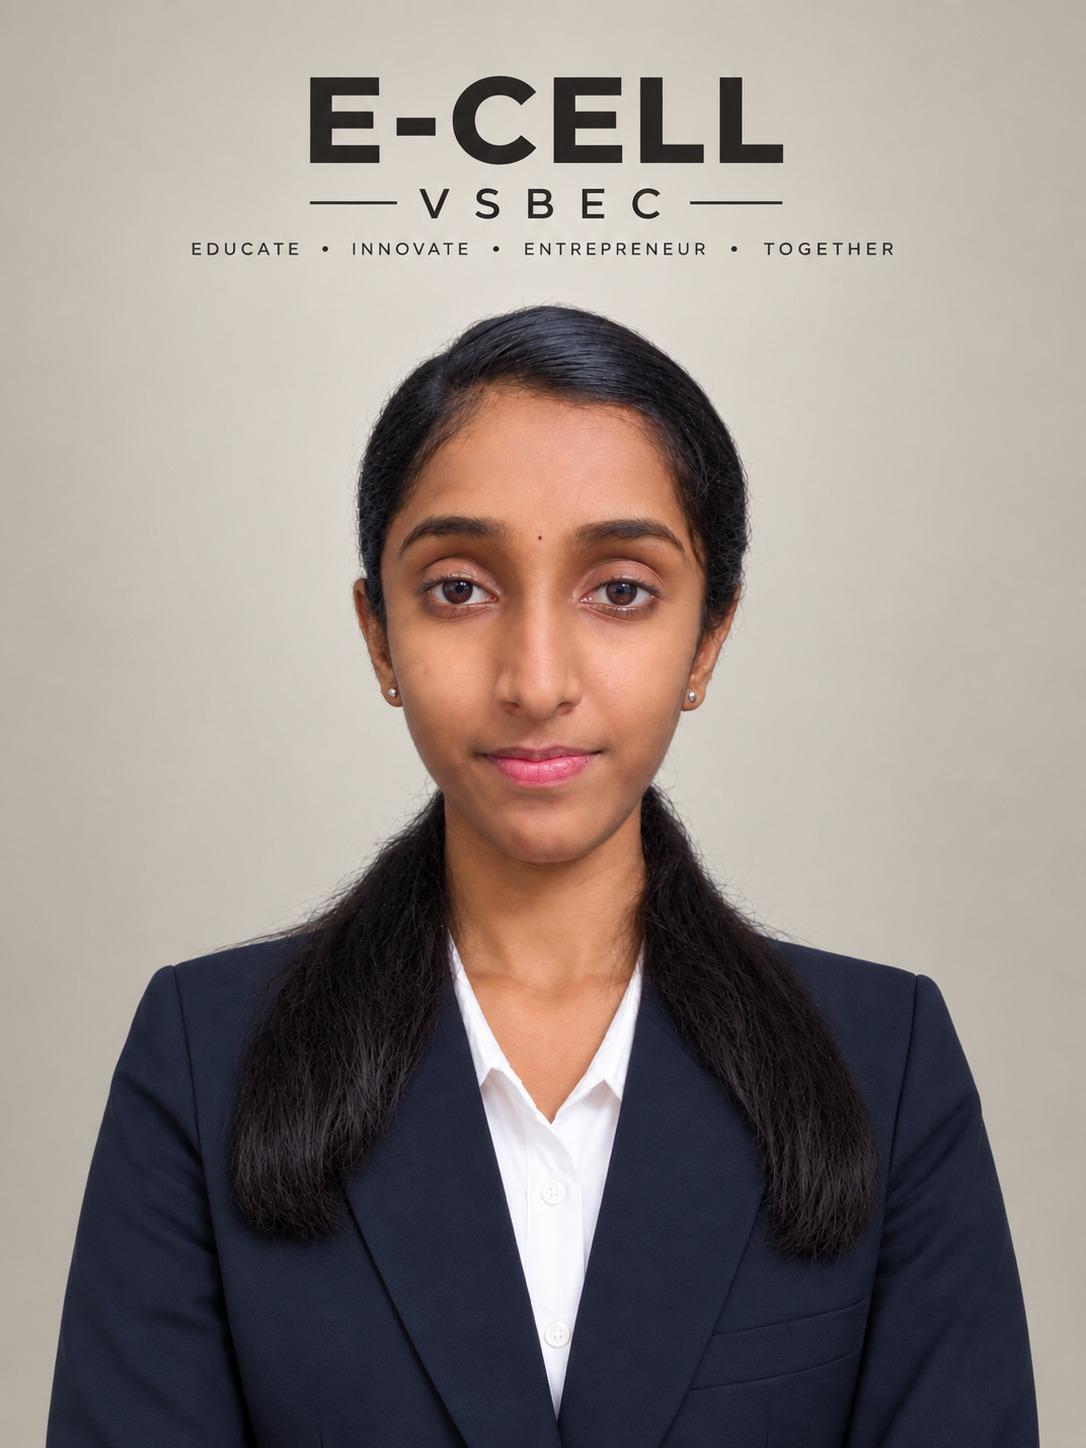
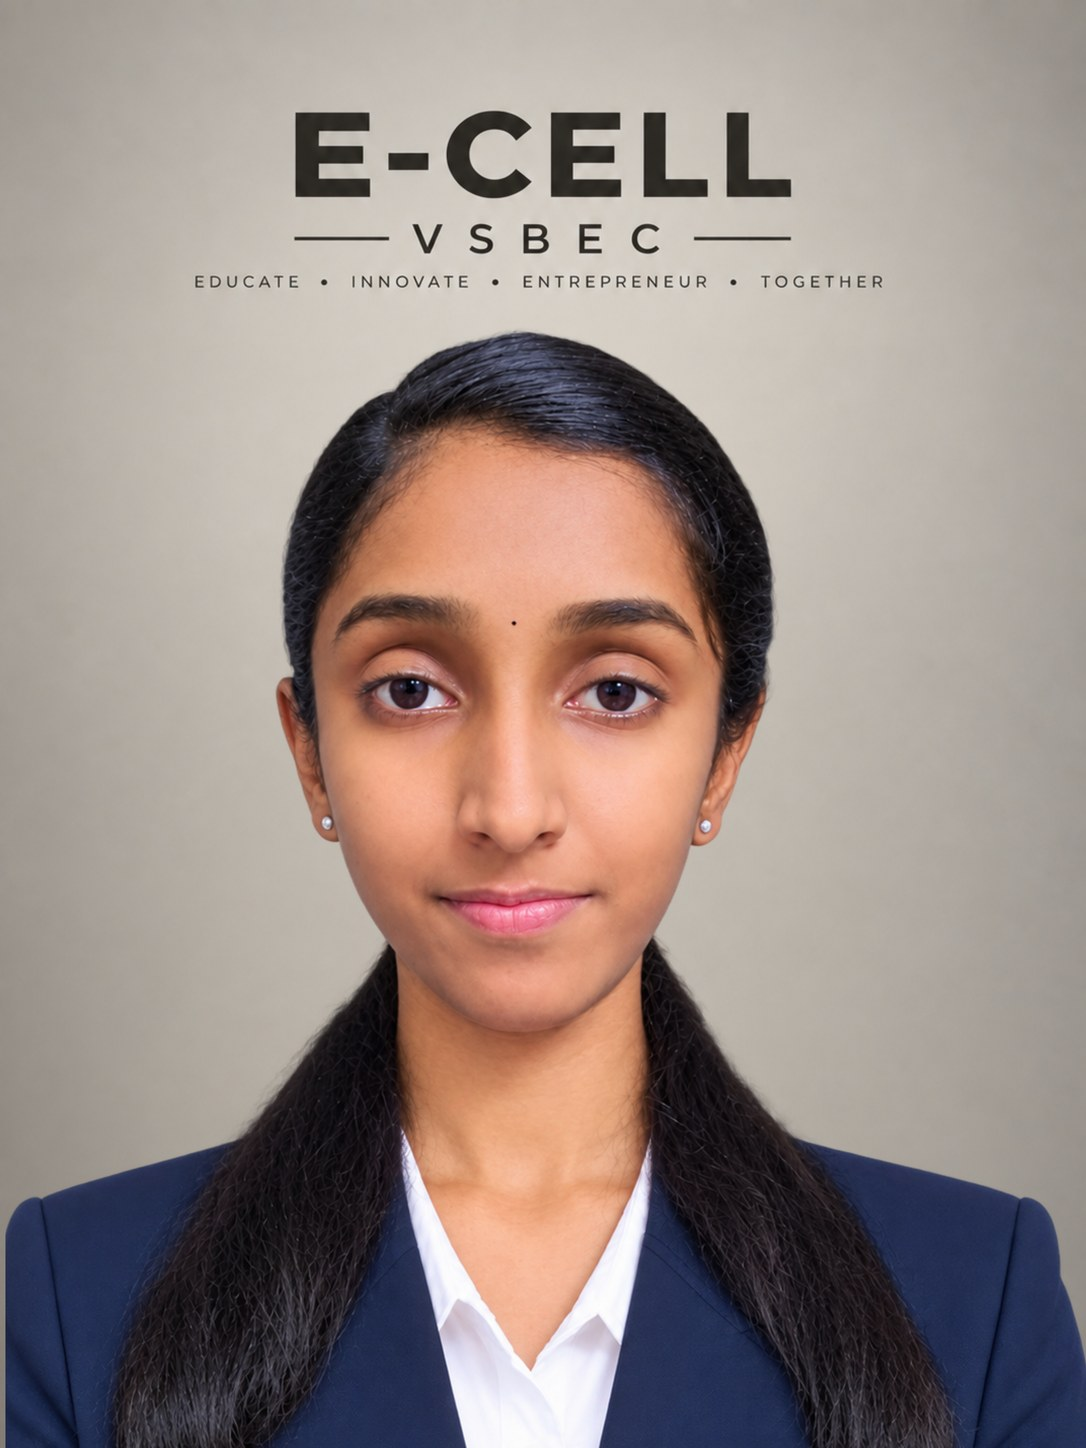
Prepare for Vercel deploy: add vercel.json, update team assets

diff --git a/index.html b/index.html
@@ -92,7 +92,7 @@
           <div class="hero__geometric hero__geometric--1" aria-hidden="true"></div>
           <div class="hero__geometric hero__geometric--2" aria-hidden="true"></div>
           <div class="hero__image-wrapper">
-            <img src="https://images.unsplash.com/photo-1522202176988-66273c2fd55f?w=800&q=80&fit=crop" alt="Students collaborating on entrepreneurship projects at V.S.B. Engineering College" loading="eager" width="800" height="1000">
+            <img src="images/team-gallery/team-01.jpg" alt="Students collaborating on entrepreneurship projects at V.S.B. Engineering College" loading="eager" width="1600" height="1200">
           </div>
         </div>
       </div>
@@ -414,9 +414,9 @@
           <div class="pc-card-wrapper" data-name="HEMAPRIYA T" onclick="window.open('https://www.linkedin.com/in/hemapriya-thiyagarajan-8725b23ab/', '_blank')" data-enable-tilt="true" style="--inner-gradient: linear-gradient(145deg,#60496e8c 0%,#71C4FF44 100%); --behind-glow-color: rgba(113, 196, 255, 0.45); --behind-glow-size: 50%;"><div class="pc-card-shell">
               <section class="pc-card">
                 <div class="pc-inside"><div class="pc-content pc-avatar-content">
-                    <img class="avatar" src="images/hemapriya-t.jpg" alt="HEMAPRIYA T avatar" loading="lazy" onerror="this.style.display='none'">
+                    <img class="avatar" src="images/hemapriya-t.jpg?v=2" alt="HEMAPRIYA T avatar" loading="lazy" onerror="this.style.display='none'">
                     <div class="pc-user-info">
-                      <div class="pc-user-details"><div class="pc-mini-avatar"><img src="images/hemapriya-t.jpg" alt="mini" loading="lazy" onerror="this.src='https://ui-avatars.com/api/?name=HEMAPRIYA+T&background=111111&color=FFFFFF&size=100&bold=true'"></div><div class="pc-user-text"><div class="pc-handle">HEMAPRIYA T</div><div class="pc-status">Technical</div></div></div>
+                      <div class="pc-user-details"><div class="pc-mini-avatar"><img src="images/hemapriya-t.jpg?v=2" alt="mini" loading="lazy" onerror="this.src='https://ui-avatars.com/api/?name=HEMAPRIYA+T&background=111111&color=FFFFFF&size=100&bold=true'"></div><div class="pc-user-text"><div class="pc-handle">HEMAPRIYA T</div><div class="pc-status">Technical</div></div></div>
                       </div></div>
                 </div>
               </section>
@@ -441,6 +441,18 @@
                     <img class="avatar" src="images/dharshini-k.jpg" alt="DHARSHINI K avatar" loading="lazy" onerror="this.style.display='none'">
                     <div class="pc-user-info">
                       <div class="pc-user-details"><div class="pc-mini-avatar"><img src="images/dharshini-k.jpg" alt="mini" loading="lazy" onerror="this.src='https://ui-avatars.com/api/?name=DHARSHINI+K&background=111111&color=FFFFFF&size=100&bold=true'"></div><div class="pc-user-text"><div class="pc-handle">DHARSHINI K</div><div class="pc-status">Marketing &amp; Publicity</div></div></div>
+                      </div></div>
+                </div>
+              </section>
+            </div>
+          </div>
+          <!-- SASMITHA M -->
+          <div class="pc-card-wrapper" data-name="SASMITHA M" onclick="window.open('https://www.linkedin.com/in/sasmitha-m-b077563a4?utm_source=share_via&utm_content=profile&utm_medium=member_android', '_blank')" data-enable-tilt="true" style="--inner-gradient: linear-gradient(145deg,#60496e8c 0%,#71C4FF44 100%); --behind-glow-color: rgba(113, 196, 255, 0.45); --behind-glow-size: 50%;"><div class="pc-card-shell">
+              <section class="pc-card">
+                <div class="pc-inside"><div class="pc-content pc-avatar-content">
+                    <img class="avatar" src="images/sasmitha-m.jpg" alt="SASMITHA M avatar" loading="lazy" onerror="this.style.display='none'">
+                    <div class="pc-user-info">
+                      <div class="pc-user-details"><div class="pc-mini-avatar"><img src="images/sasmitha-m.jpg" alt="mini" loading="lazy" onerror="this.src='https://ui-avatars.com/api/?name=SASMITHA+M&background=111111&color=FFFFFF&size=100&bold=true'"></div><div class="pc-user-text"><div class="pc-handle">SASMITHA M</div><div class="pc-status">Technical</div></div></div>
                       </div></div>
                 </div>
               </section>
